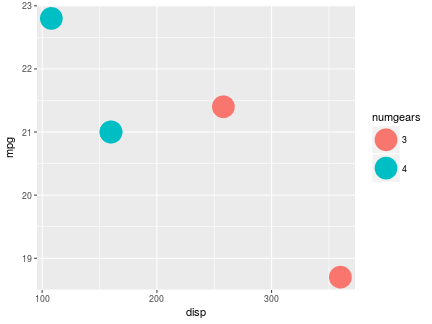
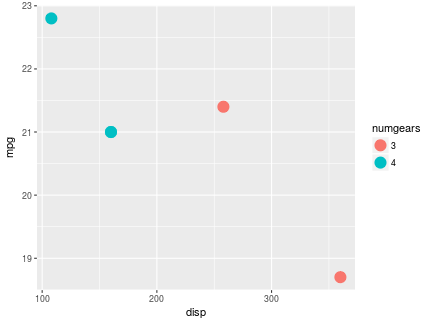
added mention of colourNames(), colourSwatches(), and colourMatch();  expanded discussion a little

diff --git a/roloc.html b/roloc.html
@@ -146,22 +146,25 @@ Friday 12 January 2018
           <a href="#plots">5. Visualising colour names</a>
         </li>
         <li>
-          <a href="#summary">6. Discussion</a>
+          <a href="#detail">6. Under the hood</a>
         </li>
         <li>
-          <a href="#related">7. Related work</a>
+          <a href="#summary">7. Discussion</a>
         </li>
         <li>
-          <a href="#summary">8. Summary</a>
+          <a href="#related">8. Related work</a>
         </li>
         <li>
-          <a href="#requirements">9. Technical requirements</a>
+          <a href="#summary">9. Summary</a>
         </li>
         <li>
-          <a href="#Resources">10. Resources</a>
+          <a href="#requirements">10. Technical requirements</a>
         </li>
         <li>
-          <a href="#references">11. References</a>
+          <a href="#Resources">11. Resources</a>
+        </li>
+        <li>
+          <a href="#references">12. References</a>
         </li>
       </ul>
     </div>
@@ -189,7 +192,7 @@ Friday 12 January 2018
     Now we produce a "ggplot" object that describes a plot of these data.
   </p>
 <div class="chunk" id="unnamed-chunk-4"><div class="rcode"><div class="source"><pre class="knitr r"><span class="hl std">g</span> <span class="hl kwb">&lt;-</span> <span class="hl kwd">ggplot</span><span class="hl std">(mtsmall)</span> <span class="hl opt">+</span>
-<span class="hl kwd">geom_point</span><span class="hl std">(</span><span class="hl kwd">aes</span><span class="hl std">(</span><span class="hl kwc">x</span><span class="hl std">=disp,</span> <span class="hl kwc">y</span><span class="hl std">=mpg),</span> <span class="hl kwc">size</span><span class="hl std">=</span><span class="hl num">10</span><span class="hl std">)</span>
+<span class="hl kwd">geom_point</span><span class="hl std">(</span><span class="hl kwd">aes</span><span class="hl std">(</span><span class="hl kwc">x</span><span class="hl std">=disp,</span> <span class="hl kwc">y</span><span class="hl std">=mpg),</span> <span class="hl kwc">size</span><span class="hl std">=</span><span class="hl num">5</span><span class="hl std">)</span>
 </pre></div>
 </div></div>
     <p>
@@ -215,7 +218,7 @@ Friday 12 January 2018
   (108, 22.8), 
   (258, 21.4) and 
   (360, 18.7)
-  The chart has size set to 10.
+  The chart has size set to 5.
 </pre></div>
 </div></div>
     <p>
@@ -225,7 +228,7 @@ Friday 12 January 2018
     but with points from different groups drawn with different colours.
   </p>
 <div class="chunk" id="unnamed-chunk-7"><div class="rcode"><div class="source"><pre class="knitr r"><span class="hl std">g</span> <span class="hl kwb">&lt;-</span> <span class="hl kwd">ggplot</span><span class="hl std">(mtsmall)</span> <span class="hl opt">+</span>
-<span class="hl kwd">geom_point</span><span class="hl std">(</span><span class="hl kwd">aes</span><span class="hl std">(</span><span class="hl kwc">x</span><span class="hl std">=disp,</span> <span class="hl kwc">y</span><span class="hl std">=mpg,</span> <span class="hl kwc">colour</span><span class="hl std">=numgears),</span> <span class="hl kwc">size</span><span class="hl std">=</span><span class="hl num">10</span><span class="hl std">)</span>
+<span class="hl kwd">geom_point</span><span class="hl std">(</span><span class="hl kwd">aes</span><span class="hl std">(</span><span class="hl kwc">x</span><span class="hl std">=disp,</span> <span class="hl kwc">y</span><span class="hl std">=mpg,</span> <span class="hl kwc">colour</span><span class="hl std">=numgears),</span> <span class="hl kwc">size</span><span class="hl std">=</span><span class="hl num">5</span><span class="hl std">)</span>
 <span class="hl std">g</span>
 </pre></div>
 </div><div class="rimage default"><img src="figure/unnamed-chunk-7-1.png" title="plot of chunk unnamed-chunk-7" alt="plot of chunk unnamed-chunk-7" class="plot" /></div><div class="rcode">
@@ -244,7 +247,7 @@ Friday 12 January 2018
   (108, 22.8) colour #00BFC4 which maps to numgears = 4, 
   (258, 21.4) colour #F8766D which maps to numgears = 3 and 
   (360, 18.7) colour #F8766D which maps to numgears = 3
-  The chart has size set to 10.
+  The chart has size set to 5.
 </pre></div>
 </div></div>
     <p>
@@ -626,8 +629,43 @@ Friday 12 January 2018
 </pre></div>
 </div></div>
     <p>
-    TODO: numMatches argument too ?
+    There is also a <code>colourNames</code> function, which can return
+    more than one name for each colour (ordered by increasing distance).   
+    Using the <code>euclideanLUV</code> metric and infinite tolerance,
+    this will return all colours in the colour list ...
   </p>
+<div class="chunk" id="unnamed-chunk-30"><div class="rcode"><div class="source"><pre class="knitr r"><span class="hl kwd">colourNames</span><span class="hl std">(</span><span class="hl kwd">c</span><span class="hl std">(</span><span class="hl str">&quot;#00FF00&quot;</span><span class="hl std">,</span> <span class="hl str">&quot;#00BFC4&quot;</span><span class="hl std">,</span> <span class="hl str">&quot;#F0F8FF&quot;</span><span class="hl std">),</span>
+        <span class="hl kwc">colourList</span><span class="hl std">=HTMLcolours)</span>
+</pre></div>
+<div class="output"><pre class="knitr r">  [[1]]
+   [1] &quot;lime&quot;    &quot;green&quot;   &quot;yellow&quot;  &quot;olive&quot;   &quot;aqua&quot;    &quot;teal&quot;    &quot;silver&quot;  &quot;white&quot;   &quot;gray&quot;   
+  [10] &quot;black&quot;   &quot;navy&quot;    &quot;maroon&quot;  &quot;purple&quot;  &quot;blue&quot;    &quot;red&quot;     &quot;fuschia&quot;
+  
+  [[2]]
+   [1] &quot;aqua&quot;    &quot;teal&quot;    &quot;silver&quot;  &quot;gray&quot;    &quot;white&quot;   &quot;green&quot;   &quot;navy&quot;    &quot;black&quot;   &quot;olive&quot;  
+  [10] &quot;purple&quot;  &quot;lime&quot;    &quot;blue&quot;    &quot;yellow&quot;  &quot;maroon&quot;  &quot;fuschia&quot; &quot;red&quot;    
+  
+  [[3]]
+   [1] &quot;white&quot;   &quot;silver&quot;  &quot;gray&quot;    &quot;teal&quot;    &quot;aqua&quot;    &quot;olive&quot;   &quot;green&quot;   &quot;purple&quot;  &quot;navy&quot;   
+  [10] &quot;black&quot;   &quot;yellow&quot;  &quot;maroon&quot;  &quot;lime&quot;    &quot;blue&quot;    &quot;fuschia&quot; &quot;red&quot;
+</pre></div>
+</div></div>
+    <p>
+    ... or a lower tolerance can be specified to get just "nearby" colours ...
+  </p>
+<div class="chunk" id="unnamed-chunk-31"><div class="rcode"><div class="source"><pre class="knitr r"><span class="hl kwd">colourNames</span><span class="hl std">(</span><span class="hl kwd">c</span><span class="hl std">(</span><span class="hl str">&quot;#00FF00&quot;</span><span class="hl std">,</span> <span class="hl str">&quot;#00BFC4&quot;</span><span class="hl std">,</span> <span class="hl str">&quot;#F0F8FF&quot;</span><span class="hl std">),</span>
+        <span class="hl kwc">colourList</span><span class="hl std">=HTMLcolours,</span> <span class="hl kwc">tolerance</span><span class="hl std">=</span><span class="hl num">40</span><span class="hl std">)</span>
+</pre></div>
+<div class="output"><pre class="knitr r">  [[1]]
+  [1] &quot;lime&quot;
+  
+  [[2]]
+  [1] &quot;aqua&quot; &quot;teal&quot;
+  
+  [[3]]
+  [1] &quot;white&quot;  &quot;silver&quot;
+</pre></div>
+</div></div>
     <h2>
       <a name="plots">5. Visualising colour names</a>
     </h2>
@@ -637,17 +675,67 @@ Friday 12 January 2018
     to be matched, and a small rectangle of that colour,
     alongside the matched colour name, and a small rectangle of that colour.
   </p>
-<div class="chunk" id="unnamed-chunk-30"><div class="rcode"><div class="source"><pre class="knitr r"><span class="hl kwd">colourSwatch</span><span class="hl std">(</span><span class="hl str">&quot;#F11300&quot;</span><span class="hl std">)</span>
+<div class="chunk" id="unnamed-chunk-32"><div class="rcode"><div class="source"><pre class="knitr r"><span class="hl kwd">colourSwatch</span><span class="hl std">(</span><span class="hl kwd">c</span><span class="hl std">(</span><span class="hl str">&quot;#00FF00&quot;</span><span class="hl std">,</span> <span class="hl str">&quot;#00BFC4&quot;</span><span class="hl std">,</span> <span class="hl str">&quot;#F0F8FF&quot;</span><span class="hl std">))</span>
 </pre></div>
-</div><div class="rimage default"><img src="figure/unnamed-chunk-30-1.png" title="plot of chunk unnamed-chunk-30" alt="plot of chunk unnamed-chunk-30" class="plot" /></div><div class="rcode">
-<div class="source"><pre class="knitr r"><span class="hl kwd">colourSwatch</span><span class="hl std">(</span><span class="hl str">&quot;#F11300&quot;</span><span class="hl std">,</span> <span class="hl kwc">colourList</span><span class="hl std">=HTMLcolours)</span>
+</div><div class="rimage default"><img src="figure/unnamed-chunk-32-1.png" title="plot of chunk unnamed-chunk-32" alt="plot of chunk unnamed-chunk-32" class="plot" /></div><div class="rcode">
+<div class="source"><pre class="knitr r"><span class="hl kwd">colourSwatch</span><span class="hl std">(</span><span class="hl kwd">c</span><span class="hl std">(</span><span class="hl str">&quot;#00FF00&quot;</span><span class="hl std">,</span> <span class="hl str">&quot;#00BFC4&quot;</span><span class="hl std">,</span> <span class="hl str">&quot;#F0F8FF&quot;</span><span class="hl std">),</span>
+       <span class="hl kwc">colourList</span><span class="hl std">=HTMLcolours)</span>
 </pre></div>
-</div><div class="rimage default"><img src="figure/unnamed-chunk-30-2.png" title="plot of chunk unnamed-chunk-30" alt="plot of chunk unnamed-chunk-30" class="plot" /></div><div class="rcode">
-<div class="source"><pre class="knitr r"><span class="hl kwd">colourSwatch</span><span class="hl std">(</span><span class="hl str">&quot;#F11300&quot;</span><span class="hl std">,</span> <span class="hl kwc">colourMetric</span><span class="hl std">=euclideanRGB)</span>
+</div><div class="rimage default"><img src="figure/unnamed-chunk-32-2.png" title="plot of chunk unnamed-chunk-32" alt="plot of chunk unnamed-chunk-32" class="plot" /></div><div class="rcode">
+<div class="source"><pre class="knitr r"><span class="hl kwd">colourSwatch</span><span class="hl std">(</span><span class="hl kwd">c</span><span class="hl std">(</span><span class="hl str">&quot;#00FF00&quot;</span><span class="hl std">,</span> <span class="hl str">&quot;#00BFC4&quot;</span><span class="hl std">,</span> <span class="hl str">&quot;#F0F8FF&quot;</span><span class="hl std">),</span>
+       <span class="hl kwc">colourList</span><span class="hl std">=shades,</span> <span class="hl kwc">colourMetric</span><span class="hl std">=lightnessLUV)</span>
 </pre></div>
-</div><div class="rimage default"><img src="figure/unnamed-chunk-30-3.png" title="plot of chunk unnamed-chunk-30" alt="plot of chunk unnamed-chunk-30" class="plot" /></div></div>
+</div><div class="rimage default"><img src="figure/unnamed-chunk-32-3.png" title="plot of chunk unnamed-chunk-32" alt="plot of chunk unnamed-chunk-32" class="plot" /></div></div>
+    <p>
+    The <code>colourSwatches</code> function shows more than one match.
+  </p>
+<div class="chunk" id="unnamed-chunk-33"><div class="rcode"><div class="source"><pre class="knitr r"><span class="hl kwd">colourSwatches</span><span class="hl std">(</span><span class="hl kwd">c</span><span class="hl std">(</span><span class="hl str">&quot;#00FF00&quot;</span><span class="hl std">,</span> <span class="hl str">&quot;#00BFC4&quot;</span><span class="hl std">,</span> <span class="hl str">&quot;#F0F8FF&quot;</span><span class="hl std">),</span>
+           <span class="hl kwc">tolerance</span><span class="hl std">=</span><span class="hl num">5</span><span class="hl std">)</span>
+</pre></div>
+</div><div class="rimage default"><img src="figure/unnamed-chunk-33-1.png" title="plot of chunk unnamed-chunk-33" alt="plot of chunk unnamed-chunk-33" class="plot" /></div><div class="rcode">
+<div class="source"><pre class="knitr r"><span class="hl kwd">colourSwatches</span><span class="hl std">(</span><span class="hl kwd">c</span><span class="hl std">(</span><span class="hl str">&quot;#00FF00&quot;</span><span class="hl std">,</span> <span class="hl str">&quot;#00BFC4&quot;</span><span class="hl std">,</span> <span class="hl str">&quot;#F0F8FF&quot;</span><span class="hl std">),</span>
+           <span class="hl kwc">colourList</span><span class="hl std">=HTMLcolours,</span> <span class="hl kwc">tolerance</span><span class="hl std">=</span><span class="hl num">40</span><span class="hl std">)</span>
+</pre></div>
+</div><div class="rimage default"><img src="figure/unnamed-chunk-33-2.png" title="plot of chunk unnamed-chunk-33" alt="plot of chunk unnamed-chunk-33" class="plot" /></div></div>
     <h2>
-      <a name="summary">6. Discussion</a>
+      <a name="detail">6. Under the hood</a>
+    </h2>
+    <p>
+    The lower-level <code>colourMatch</code> function generates
+    a "colourMatch" object, which contains all of the information
+    about the comparison of test colour with the colour list.
+  </p>
+<div class="chunk" id="unnamed-chunk-34"><div class="rcode"><div class="source"><pre class="knitr r"><span class="hl kwd">colourMatch</span><span class="hl std">(</span><span class="hl kwd">c</span><span class="hl std">(</span><span class="hl str">&quot;#00FF00&quot;</span><span class="hl std">,</span> <span class="hl str">&quot;#00BFC4&quot;</span><span class="hl std">,</span> <span class="hl str">&quot;#F0F8FF&quot;</span><span class="hl std">),</span>
+        <span class="hl kwc">colourList</span><span class="hl std">=shades,</span> <span class="hl kwc">colourMetric</span><span class="hl std">=lightnessLUV)</span>
+</pre></div>
+<div class="output"><pre class="knitr r">  $colour
+  [1] &quot;#00FF00&quot; &quot;#00BFC4&quot; &quot;#F0F8FF&quot;
+  
+  $colourList
+  $names
+  [1] &quot;light&quot;  &quot;medium&quot; &quot;dark&quot;  
+  
+  $colours
+               R         G         B
+  [1,] 1.0000036 0.9999959 1.0000355
+  [2,] 0.4663284 0.4663246 0.4663441
+  [3,] 0.0000000 0.0000000 0.0000000
+  
+  attr(,&quot;class&quot;)
+  [1] &quot;colourList&quot;
+  
+  $colourDist
+            [,1]     [,2]     [,3]
+  [1,] 12.264935 37.73508 87.73510
+  [2,] 29.653967 20.34605 70.34607
+  [3,]  2.821398 47.17862 97.17864
+  
+  attr(,&quot;class&quot;)
+  [1] &quot;colourMatch&quot;
+</pre></div>
+</div></div>
+    <h2>
+      <a name="summary">7. Discussion</a>
     </h2>
     <p>
     The initial motivation for developing 'roloc' was to provide a
@@ -658,22 +746,24 @@ Friday 12 January 2018
     who encounters a hexadecimal colour specification may find it useful
     to interactively query a colour specification, as shown below. 
   </p>
-<div class="chunk" id="unnamed-chunk-31"><div class="rcode"><div class="source"><pre class="knitr r"><span class="hl kwd">colourName</span><span class="hl std">(</span><span class="hl str">&quot;#F8766D&quot;</span><span class="hl std">)</span>
+<div class="chunk" id="unnamed-chunk-35"><div class="rcode"><div class="source"><pre class="knitr r"><span class="hl kwd">colourName</span><span class="hl std">(</span><span class="hl str">&quot;#F8766D&quot;</span><span class="hl std">)</span>
 </pre></div>
 <div class="output"><pre class="knitr r">  [1] &quot;salmon&quot;
 </pre></div>
 <div class="source"><pre class="knitr r"><span class="hl kwd">colourSwatch</span><span class="hl std">(</span><span class="hl str">&quot;#F8766D&quot;</span><span class="hl std">)</span>
 </pre></div>
-</div><div class="rimage default"><img src="figure/unnamed-chunk-31-1.png" title="plot of chunk unnamed-chunk-31" alt="plot of chunk unnamed-chunk-31" class="plot" /></div></div>
+</div><div class="rimage default"><img src="figure/unnamed-chunk-35-1.png" title="plot of chunk unnamed-chunk-35" alt="plot of chunk unnamed-chunk-35" class="plot" /></div></div>
     <p>
     Another possibility is that some colour names themselves are
     inscrutable (e.g., "aliceblue" or "lemonchiffon").  Use of
     a different (simpler) colour list might provide a translation
     of these more exotic names into more familiar terminology.
+    The <code>simpleColours</code> list is one of my own construction,
+    made by evenly descriptive labels throughout CIE Luv space.
   </p>
-<div class="chunk" id="unnamed-chunk-32"><div class="rcode"><div class="source"><pre class="knitr r"><span class="hl kwd">colourName</span><span class="hl std">(</span><span class="hl kwd">c</span><span class="hl std">(</span><span class="hl str">&quot;aliceblue&quot;</span><span class="hl std">,</span> <span class="hl str">&quot;lemonchiffon&quot;</span><span class="hl std">),</span> <span class="hl kwc">colourList</span><span class="hl std">=HTMLcolours)</span>
+<div class="chunk" id="unnamed-chunk-36"><div class="rcode"><div class="source"><pre class="knitr r"><span class="hl kwd">colourName</span><span class="hl std">(</span><span class="hl kwd">c</span><span class="hl std">(</span><span class="hl str">&quot;aliceblue&quot;</span><span class="hl std">,</span> <span class="hl str">&quot;lemonchiffon&quot;</span><span class="hl std">),</span> <span class="hl kwc">colourList</span><span class="hl std">=simpleColours)</span>
 </pre></div>
-<div class="output"><pre class="knitr r">  [1] &quot;white&quot; &quot;white&quot;
+<div class="output"><pre class="knitr r">  [1] &quot;greyish very light blue&quot; &quot;dull very light yellow&quot;
 </pre></div>
 </div></div>
     <p>
@@ -697,17 +787,47 @@ Friday 12 January 2018
     Also demo an xkcd colour names list ?
   </p>
     <h2>
-      <a name="related">7. Related work</a>
+      <a name="related">8. Related work</a>
     </h2>
     <p>
+    There are many R packages that deal with colour, but none to my
+    knowledge that deals directly with the problem of converting colour
+    specifications to colour names.
+    The 'roloc' package builds on the 
+    'colorspace' package 
+    for representing colour specifications in different colour spaces
+    and transforming between colour spaces.
+    Numerous packages provide functions
+    for generating colour palettes, for example,
+    'RColorBrewer' and 'pals'.
+    The 'colorscience' package contains a large number of colour resources
+    including colour space conversions, and colour metrics.
+  </p>
+    <p>
+    Outside of R, there are a number of web sites that provide
+    conversions from colour specifications to colour names, for example,
+    http://shallowsky.com/colormatch/index.php,
+    which includes links to its PHP source code
+    http://shallowsky.com/colormatch/colormatch.php.txt
+
+    There are also standalone programs like 
+    https://www.codeproject.com/Articles/243610/The-Known-Colors-Palette-Tool-Revised
+    and there are numerous mobile phone apps, such as
+    Color Grab (loomatix),
+    ColourMatch (Resene),
+    and Color ID (GreenGar).
+
+    However, all of these lack the flexibility and/or programmability
+    of a general software package and, of course, cannot be easily used
+    from R.
+  </p>
+    <!--
     Online colour name generators.
     Make sure that no other R package exists !
     'colordistance' package (for working with colours in pixel images,
     but includes colour metric tools)
     'colorscience' package (including colour matching functions, including
     deltaE2000() function ! [and others])
-    'aqp' has rgb2munsell() and munsell2rgb() (latter does its own conversions;
-    former just uses euclidean distance in RGB to get closest match)
     The World Color Survey (http://www1.icsi.berkeley.edu/wcs/)
     has a lot of data.
     There are some Julia "packages" for converting between colour names
@@ -719,9 +839,9 @@ Friday 12 January 2018
     Brand Fortner, "Number by Color", Part 5, SciTech Journal 6, p32, May/June 1996. 
     ... but noone could find a copy
     MObile phone colour apps
-  </p>
+-->
     <h2>
-      <a name="summary">8. Summary</a>
+      <a name="summary">9. Summary</a>
     </h2>
     <p>
     The 'roloc' package provides tools for converting colour specifications
@@ -730,7 +850,7 @@ Friday 12 January 2018
     and a metric function to determine the closest colour.
   </p>
     <h2>
-      <a name="requirements">9. Technical requirements</a>
+      <a name="requirements">10. Technical requirements</a>
     </h2>
     <p>
     The examples and discussion in this document relate to <a href="https://github.com/pmur002/roloc/releases/tag/v0.1">version
@@ -743,7 +863,7 @@ Friday 12 January 2018
     (see <a href="#Resources">Resources</a> section below).
   </p>
     <h2>
-      <a name="Resources">10. Resources</a>
+      <a name="Resources">11. Resources</a>
     </h2>
     <ul>
       <li>
@@ -785,7 +905,7 @@ Friday 12 January 2018
     [ <a href="how-to-cite.bib">bib</a> ] 
   </p>
     <h2>
-      <a name="references">11. References</a>
+      <a name="references">12. References</a>
     </h2>
     <dl>
 <dt>
